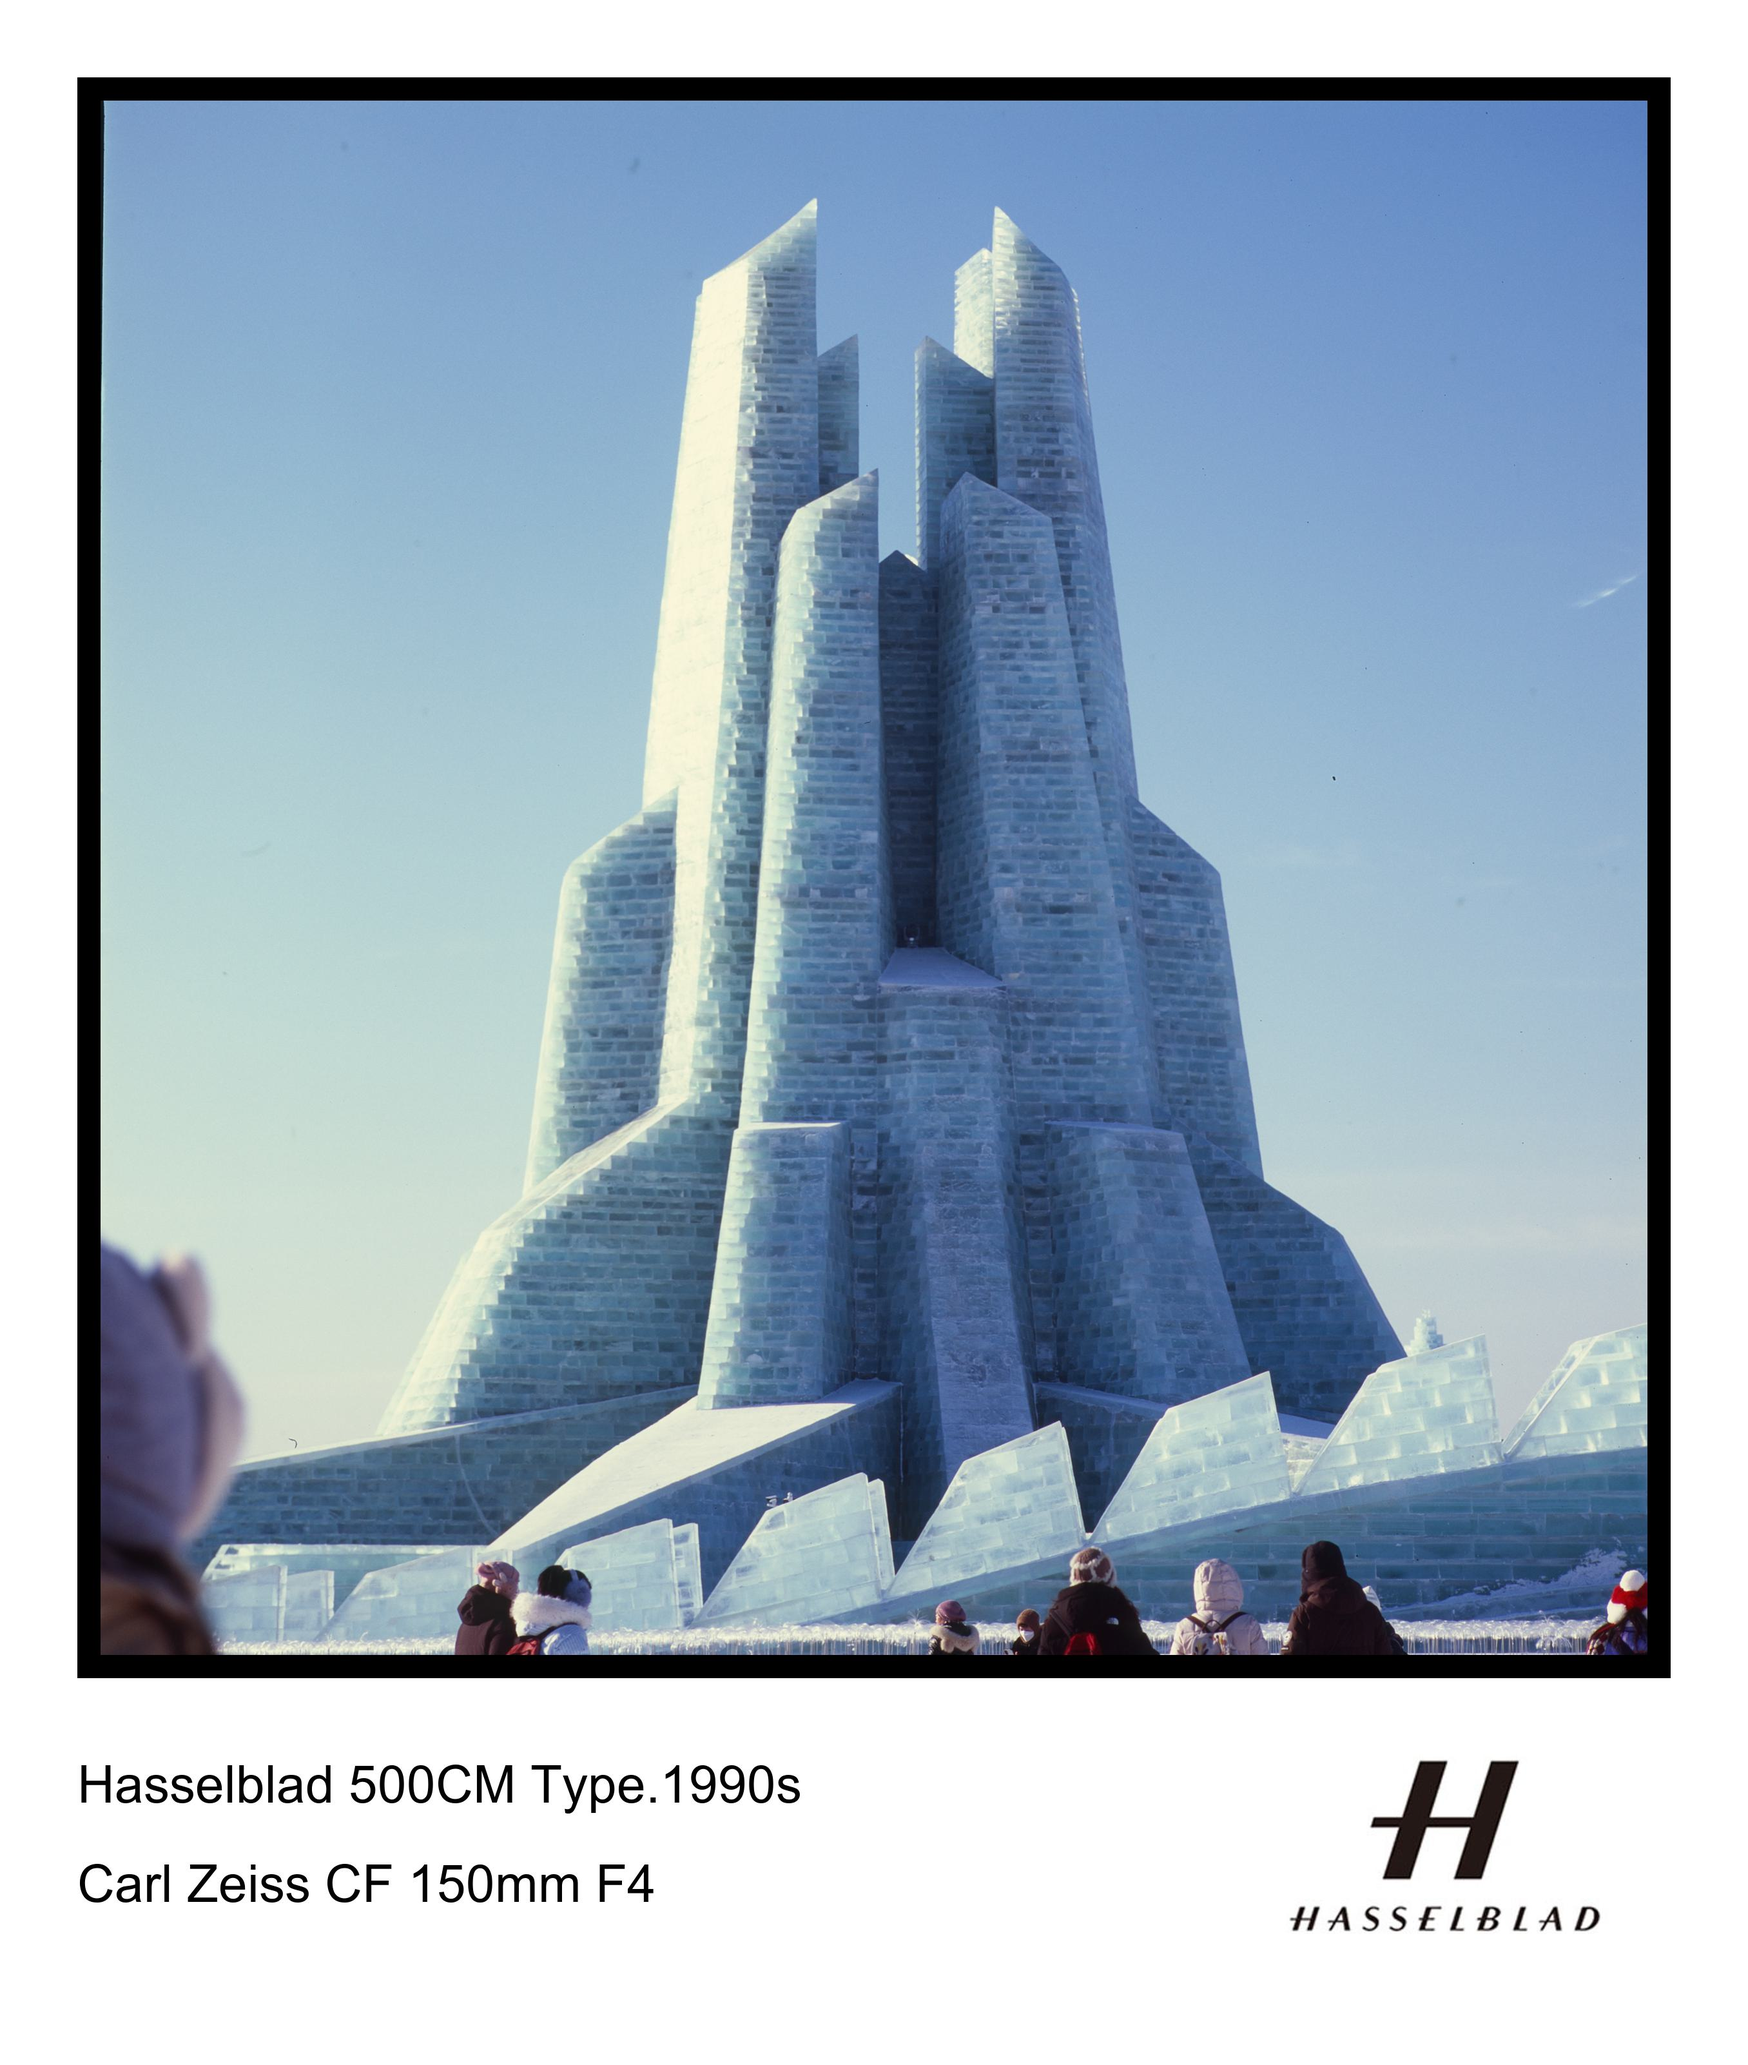
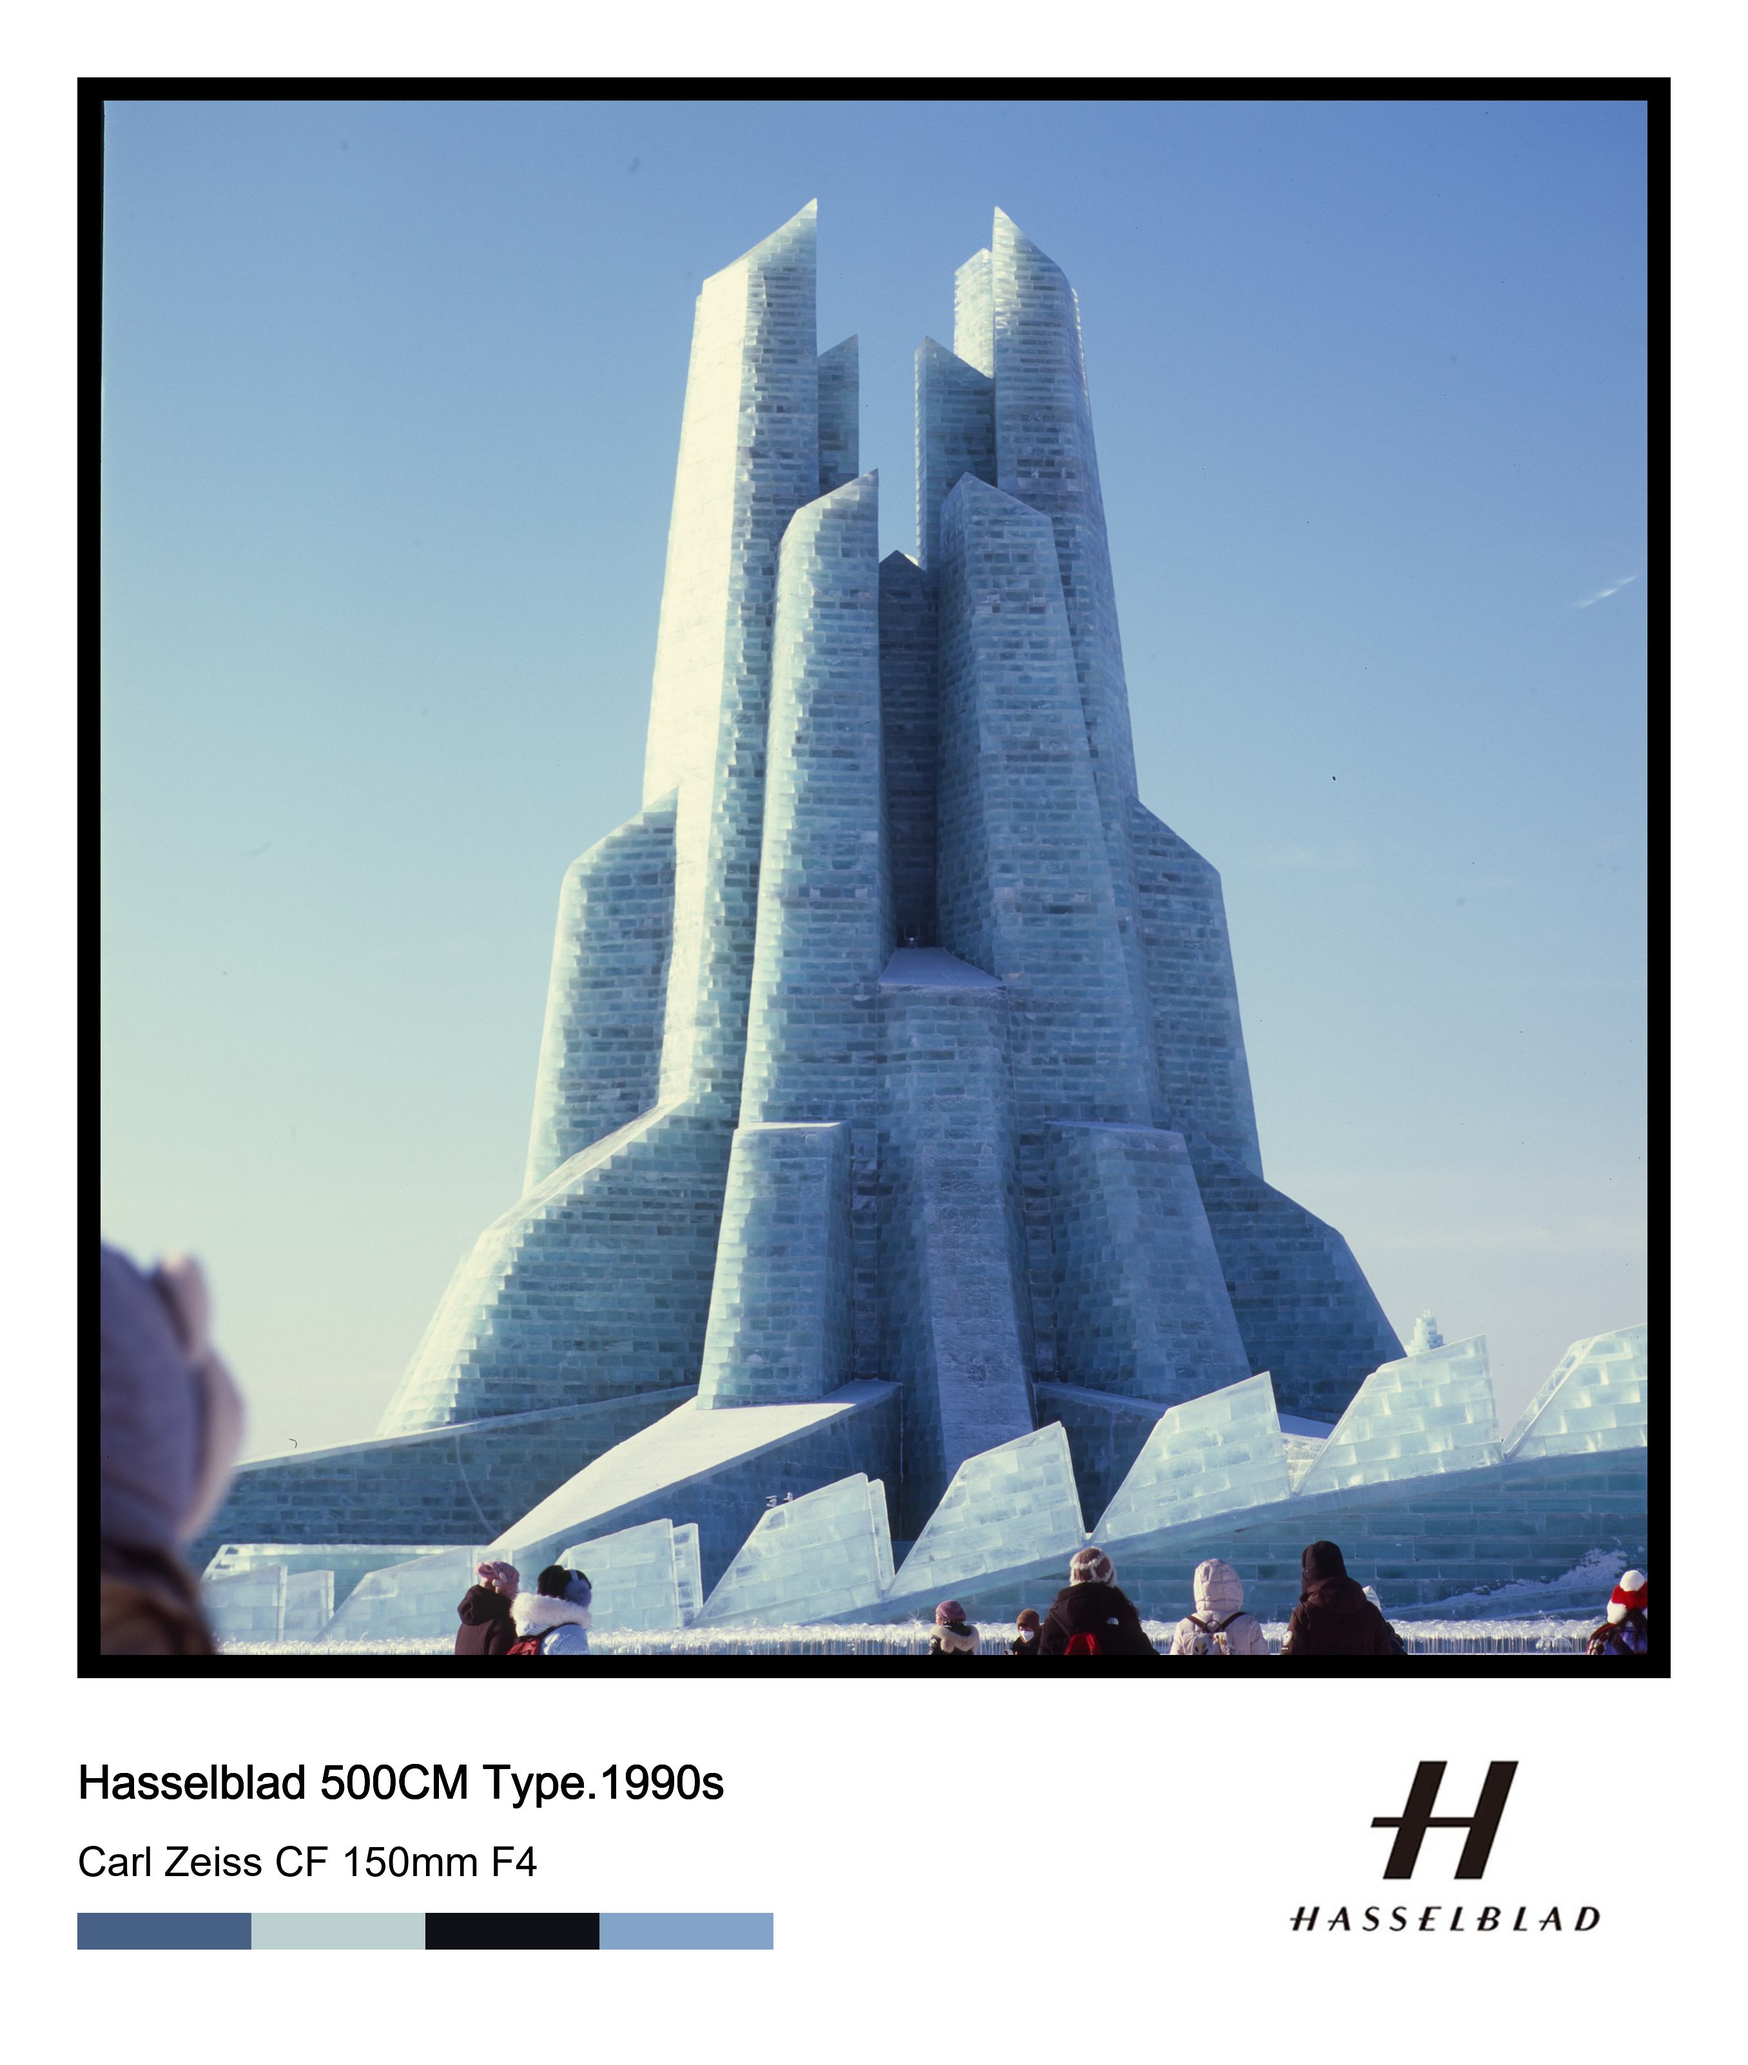
add color bar function

Changed region(s): [[0.031, 0.843, 0.4646, 0.9678]]

diff --git a/add_bd.py b/add_bd.py
@@ -1,5 +1,8 @@
 from PIL import Image,ImageDraw,ImageFont,ImageOps
 import  os,glob
+from color_extract import  extract_main_colors
+import numpy as np
+
 src='./imgtoprocess'
 tgt='./imgdone'
 tgt_size=2400
@@ -8,6 +11,7 @@ border_size=int(0.015*tgt_size)
 border_color='black'
 exterior=int(0.05*tgt_size)
 infor_area=int(0.15*tgt_size)
+font_size=int(tgt_size*0.03)
 
 text_dict={
     'hassel_CF60':["Hasselblad 500CM Type.1990s\n\nCarl Zeiss CF 60mm F3,5",'logos/hassel.jpg'],
@@ -53,8 +57,8 @@ def rotate_image_90_no_crop(image_data,reverse=False):
 
 def process_one_image(img_path,text,logo_file):
 
-    img = Image.open(img_path)
-    print(img.height,img.width)
+    img = Image.open(img_path).convert('RGB')
+    # print(img.height,img.width)
 
     # 计算要将原始图片粘贴到白色背景图上的位置,rotate or not
     rota=True if img.width < img.height * 0.95 else False
@@ -88,23 +92,44 @@ def process_one_image(img_path,text,logo_file):
     logo_img=logo_img.resize((int(logo_img.width*logo_height/logo_img.height),int(logo_height)))
     background.paste(logo_img,(int(tgt_size+2*border_size+exterior-logo_img.width*logo_height/logo_img.height),int(new_height+2*border_size+2*exterior)))
     draw = ImageDraw.Draw(background)
-    # add text
-    font = ImageFont.truetype("arial.ttf", 80)
+    # add text 1 the camera
+    font = ImageFont.truetype("arial.ttf", font_size)
+    posi = (exterior, 2 * exterior + new_height + 2*border_size)
+    text_1=text.split('\n\n')[0]
+    draw.text(posi, text_1, fill=(0, 0, 0), font=font)
+    # mkae it bold
+    bold_offset = 1
+    for offset in [(0, 0), (bold_offset, 0), (0, bold_offset), (bold_offset, bold_offset)]:
+        draw.text((posi[0] + offset[0], posi[1] + offset[1]), text_1, font=font, fill=(0, 0, 0))
 
-    x, y = exterior, 2 * exterior + new_height + 2*border_size
-    draw.text((x, y), text, fill=(0, 0, 0), font=font)
-    text2 = "\nShot in Somewhere on the earth."
+    # add text 1 the lens
+    font = ImageFont.truetype("arial.ttf", int(font_size*0.9))
+    posi = (exterior, 2 * exterior + new_height + 2 * border_size+1.8*font_size)
+    text_2 = text.split('\n\n')[1]
+    draw.text(posi, text_2, fill=(0, 0, 0), font=font)
+    # text2 = "\nShot in Somewhere on the earth."
 
+    # add main_color
+    main_c=extract_main_colors(img,num_colors=4)
+    color_image = np.zeros((int(0.8* font_size), int(15*font_size), 3), dtype=int)
 
+    block_width = color_image.shape[1] // len(main_c)
 
+    for i, color in enumerate(main_c):
+        color_image[:, i * block_width:(i + 1) * block_width] = color
+    color_pad=Image.fromarray(color_image.astype('uint8'))
+    posi_mc=(exterior, int(2 * exterior + new_height + 2 * border_size+3.4*font_size))
+    background.paste(color_pad,posi_mc)
 
+    # rotate back and save
 
     if rota:
         background=rotate_image_90_no_crop(background,reverse=False)
     dir_p=os.path.split(os.path.split(img_path)[0])[1]
     sav_path=os.path.join(tgt, dir_p+'_'+os.path.splitext(os.path.split(img_path)[1])[0] + f".jpg")
     # 保存最终结果os.path.join(tgt, os.path.splitext(os.path.split(img_path)[1])[0] + f".jpg")
-    sav=background.save(sav_path)
+
+    return background.save(sav_path)
 
 
 if __name__=='__main__':

diff --git a/color_extract.py b/color_extract.py
@@ -1,0 +1,52 @@
+from PIL import Image
+import numpy as np
+from sklearn.cluster import KMeans
+import matplotlib.pyplot as plt
+
+
+def extract_main_colors(image, num_colors=3):
+    # 打开图像并转换为RGB模式
+
+    # 缩小图像尺寸
+    image = image.resize((256, 256))
+
+    # 将图像转换为numpy数组
+    image_np = np.array(image)
+
+    # 将图像数据重塑为二维数组
+    pixels = image_np.reshape(-1, 3)
+
+    # 使用KMeans聚类算法提取主要颜色
+    kmeans = KMeans(n_clusters=num_colors, max_iter=200, n_init=1)
+    kmeans.fit(pixels)
+
+    # 获取聚类中心（主要颜色）
+    main_colors = kmeans.cluster_centers_.astype(int)
+
+    return main_colors
+
+
+def plot_colors(colors):
+    # 创建一个空白图像用于显示颜色
+    color_image = np.zeros((20, 200, 3), dtype=int)
+
+    # 计算每个颜色块的宽度
+    block_width = color_image.shape[1] // len(colors)
+
+    for i, color in enumerate(colors):
+        color_image[:, i * block_width:(i + 1) * block_width] = color
+    Image.fromarray(color_image.astype('uint8'))
+    return color_image
+    # plt.imshow(color_image)
+    # plt.axis('off')
+    # plt.show()
+
+
+# 使用示例
+if __name__=='__main__':
+    image_path = "imgtoprocess/hassel_CF60/1547-09.JPG"
+    img=Image.open(image_path).convert('RGB')
+    main_colors = extract_main_colors(img, num_colors=4)
+    plot_colors(main_colors)
+
+    print("主要颜色:", main_colors)
